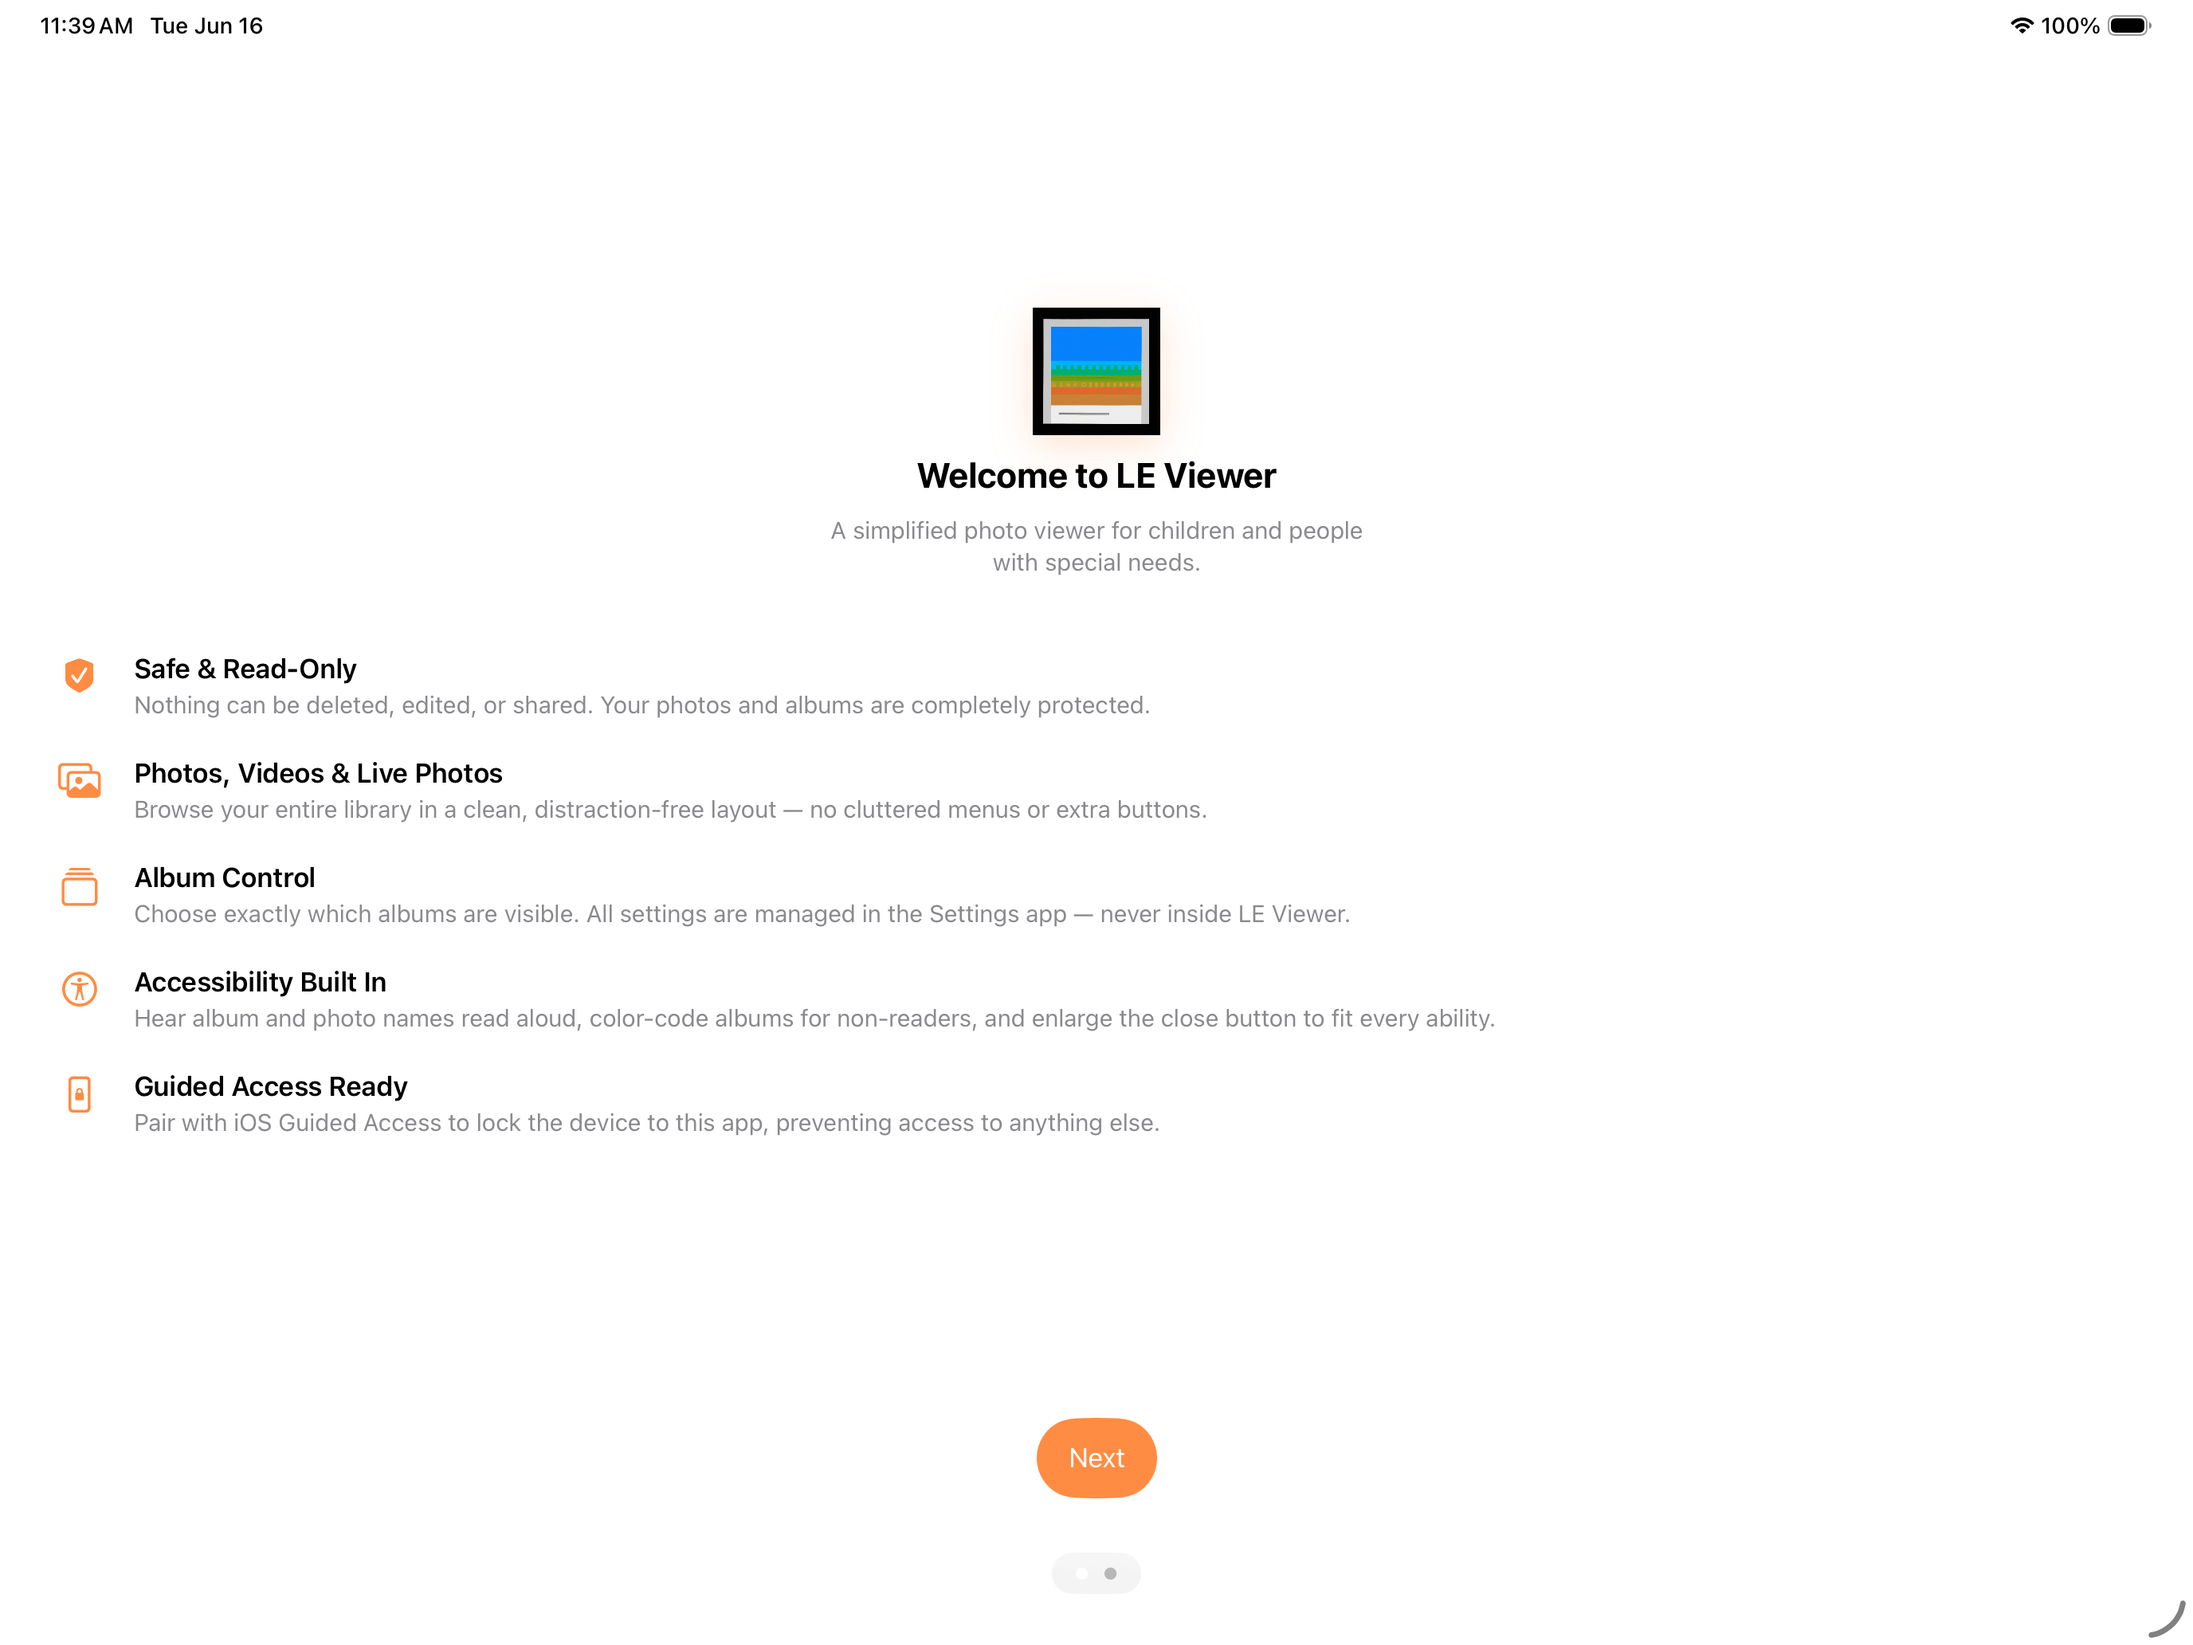
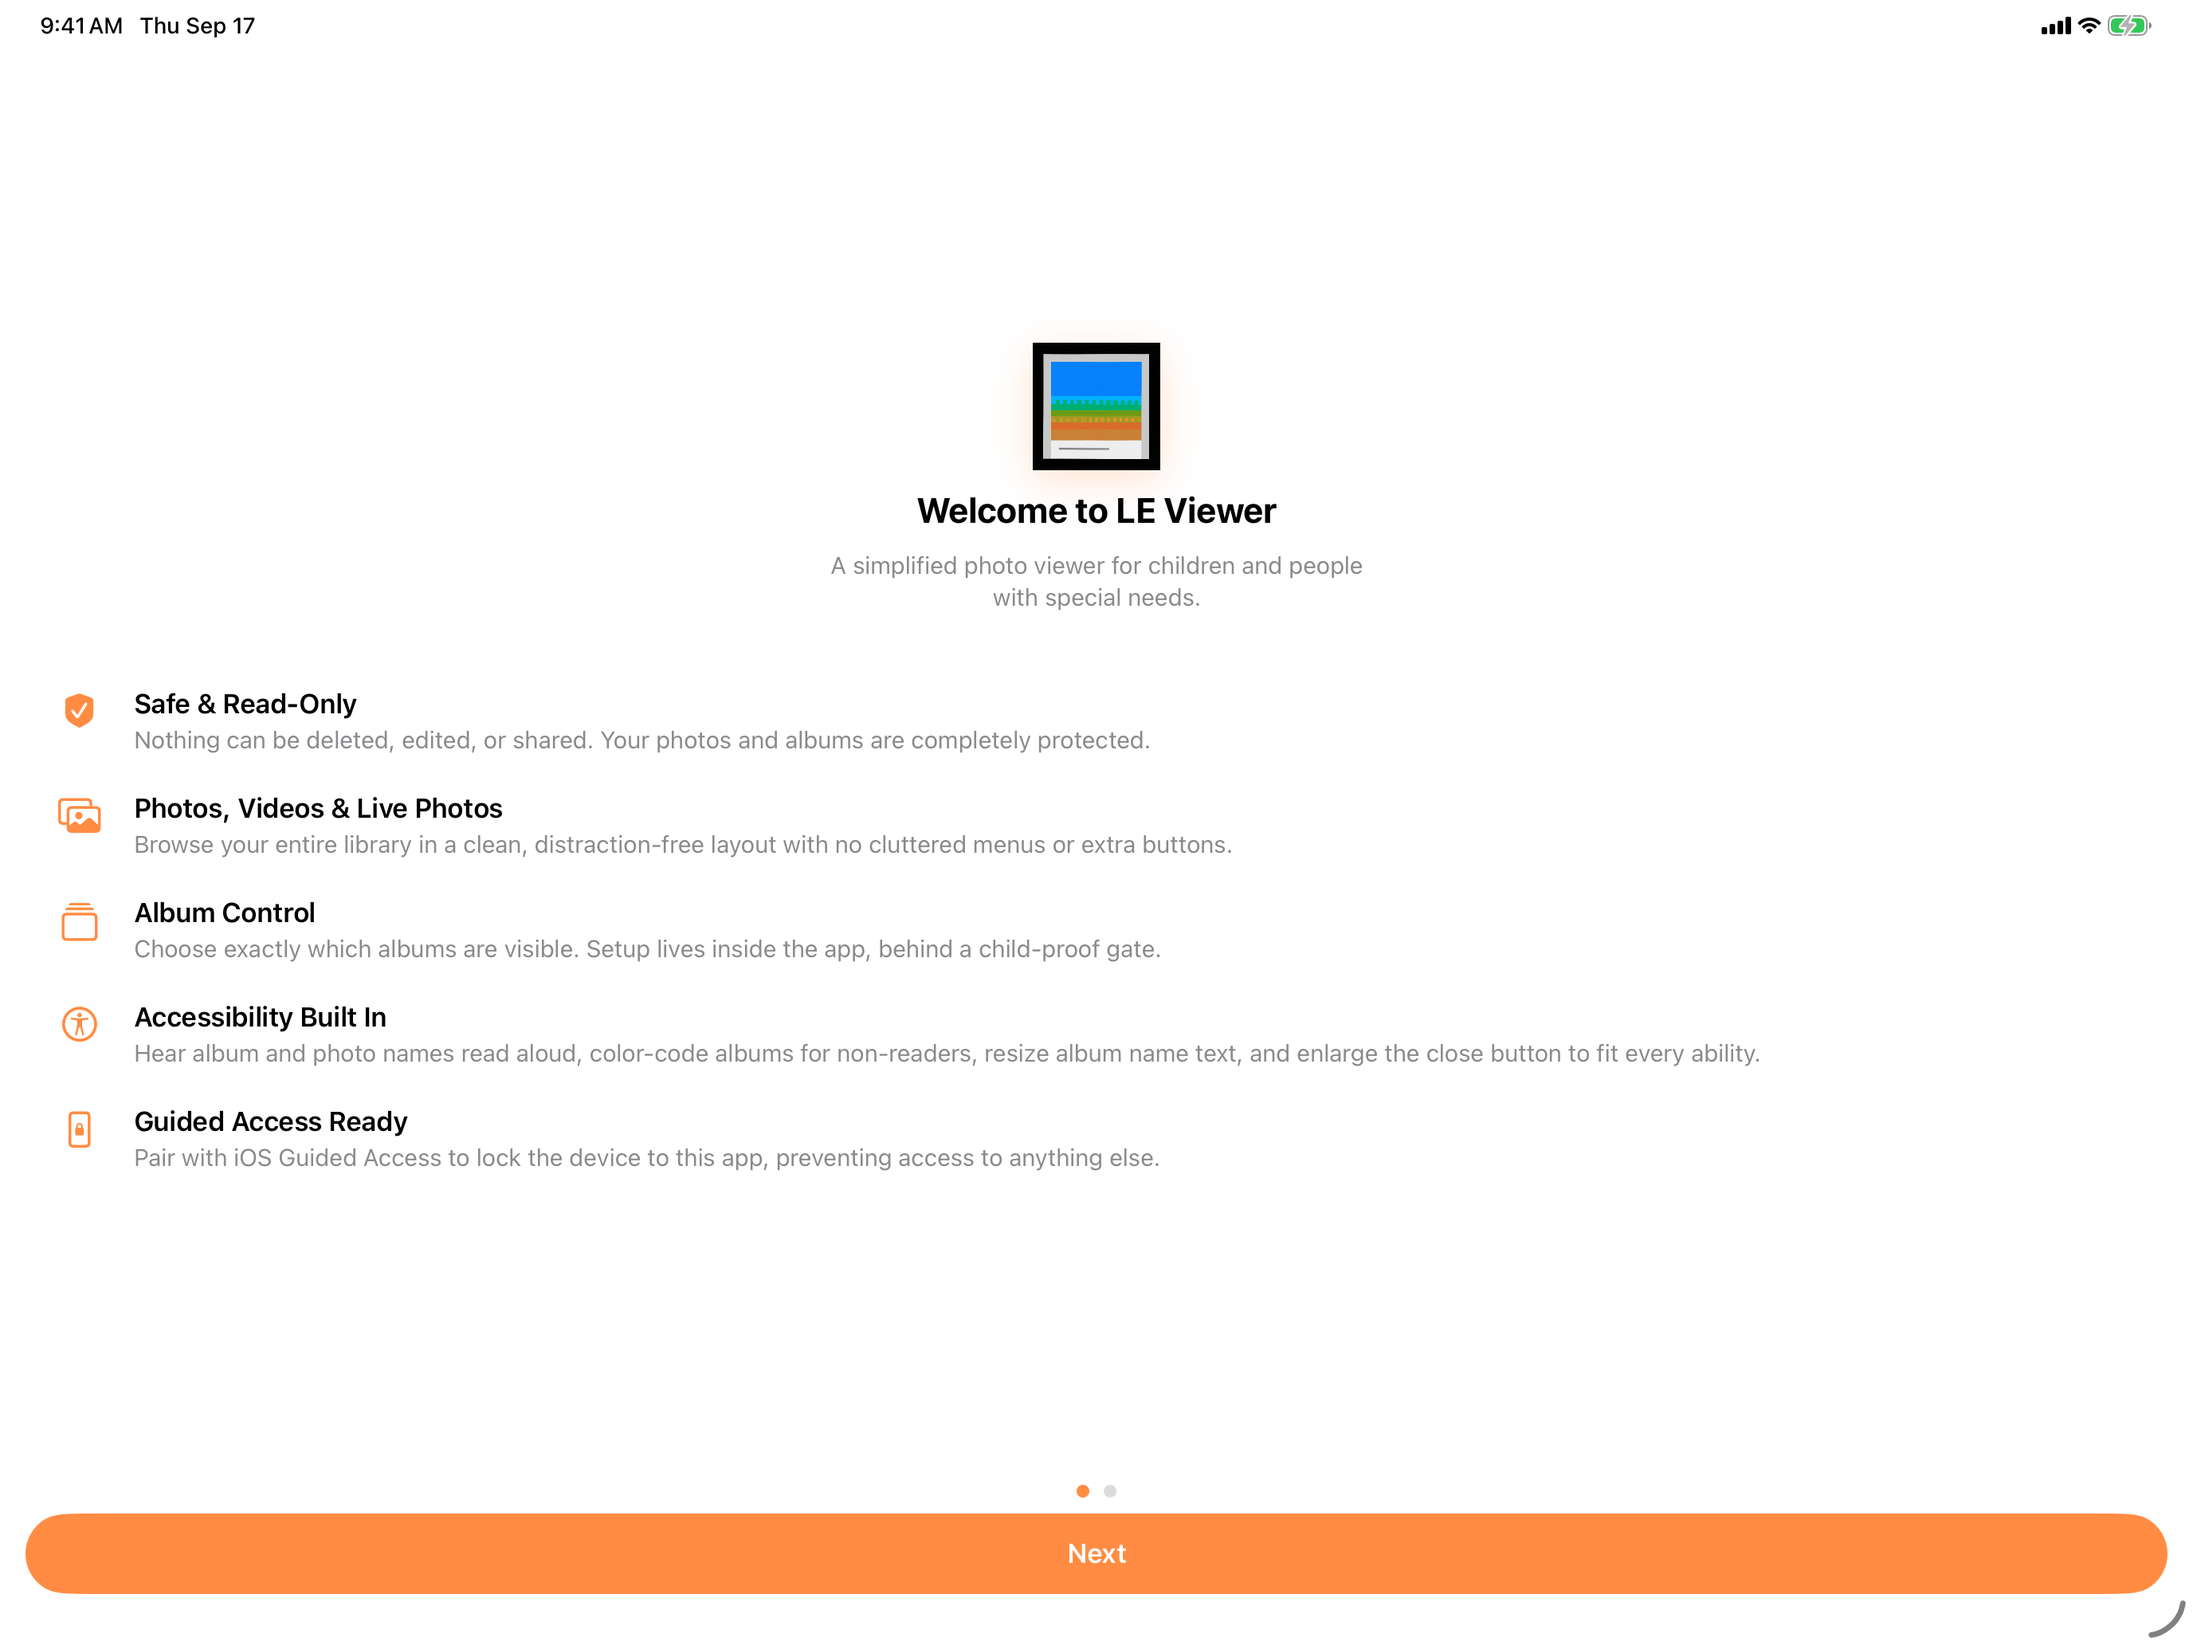
Add the 2.0 App Store listing: copy and screenshots for iPhone and iPad
The description no longer sends people to the Settings app, the review notes
say how to get through the parental gate, and the screenshots gain the
iPhone set a universal app needs and lose the two iPad shots that showed
the old Settings.

Claude-Session: https://claude.ai/code/session_01HUW2J6X3AHyGesaDq9anJH

diff --git a/AppStore/README.md b/AppStore/README.md
@@ -1,0 +1,12 @@
+# App Store listing
+
+`metadata/` holds the text entered in App Store Connect for the current version:
+the description, the What's New text, and the notes for App Review. `screenshots/`
+holds one folder per required display size.
+
+The screenshots are captured by the `AppStoreScreenshots` UI test on the
+`feature/ui-tests` branch, from a fresh install on a simulator with its built-in
+sample photos, with the status bar overridden to 9:41. The test runs only with
+`SCREENSHOTS=1` in its environment and the album colours come in through
+`ALBUM_SETTINGS_HEX`; see the file's header for the exact invocation. Captures
+carry an orientation tag, so pass them through `magick -auto-orient -strip`.
